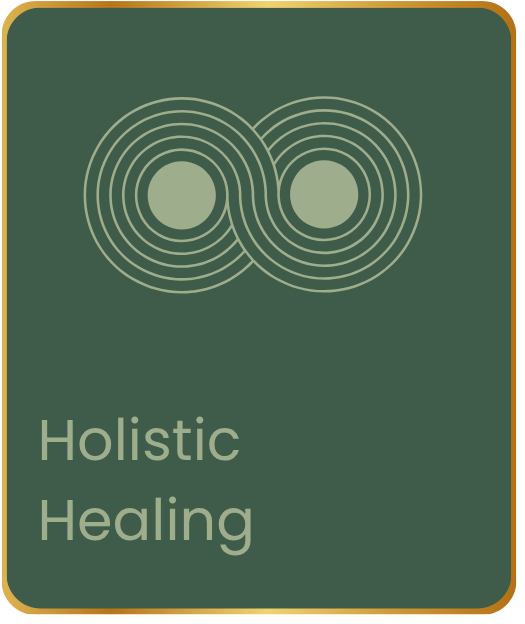
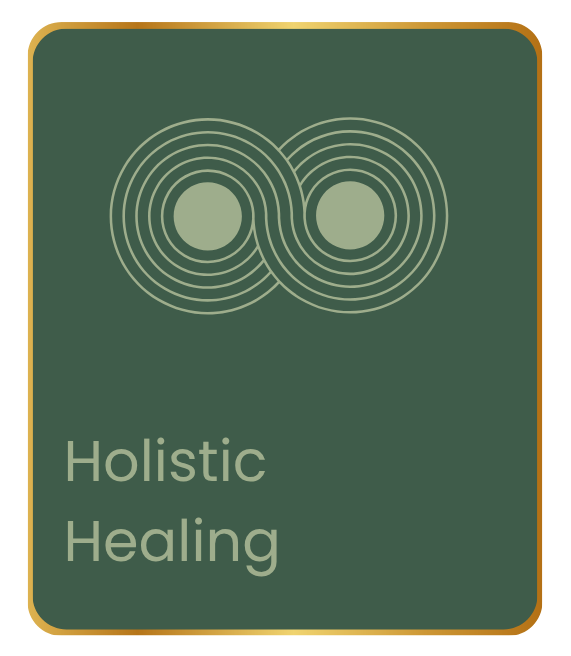
added images

Changed region(s): [[0.0, 0.0, 1.0, 1.0], [0.1524, 0.1522, 0.8229, 0.4872]]

diff --git a/components/Designed.tsx b/components/Designed.tsx
@@ -120,8 +120,60 @@ export default function Designed() {
         </motion.div>
 
         {/* ================= Cards ================= */}
-        
+
+        <motion.div
+  variants={stagger}
+  initial="hidden"
+  whileInView="show"
+  viewport={{ once: true }}
+  className="xl:hidden flex overflow-x-auto gap-6 px-4 mt-3 w-full scrollbar-hide"
+  style={{ WebkitOverflowScrolling: "touch" }}
+>
+  {["/58.png", "/59.png", "/60.png"].map((img, i) => (
+    <motion.div
+      key={i}
+      variants={fadeUp}
+      whileTap={{ scale: 0.97 }}
+      className="min-w-[280px] sm:min-w-[320px] flex-shrink-0"
+    >
+      <Image
+        src={img}
+        alt=""
+        width={320}
+        height={360}
+        className="w-full h-90 object-cover rounded-4xl"
+      />
+    </motion.div>
+  ))}
+</motion.div>
 <motion.div
+  variants={stagger}
+  initial="hidden"
+  whileInView="show"
+  viewport={{ once: true }}
+  className="hidden xl:flex flex-wrap justify-center gap-6 px-4 mt-3 w-full"
+>
+  {["/58.png", "/59.png", "/60.png"].map((img, i) => (
+    <motion.div
+      key={i}
+      variants={fadeUp}
+      whileTap={{ scale: 0.97 }}
+      whileHover={{ scale: 1.03 }}
+      className="w-full sm:w-[48%] lg:w-[30%]"
+    >
+      <Image
+        src={img}
+        alt=""
+        width={320}
+        height={360}
+        className="w-full h-110 object-cover rounded-4xl"
+      />
+    </motion.div>
+  ))}
+</motion.div>
+
+        
+{/* <motion.div
   variants={stagger}
   initial="hidden"
   whileInView="show"
@@ -170,8 +222,8 @@ export default function Designed() {
       </Card>
     </motion.div>
   ))}
-</motion.div>
-        <motion.div
+</motion.div> */}
+        {/* <motion.div
           variants={stagger}
           initial="hidden"
           whileInView="show"
@@ -179,9 +231,9 @@ export default function Designed() {
           className="hidden xl:flex flex-wrap items-center justify-center gap-5 mt-3"
         >
           {[ 
-            { img: "/3.png", title: "Consciousness Guidance", bg: "#dcd8ce" },
-            { img: "/4.png", title: "Meditation Coaching", bg: "#7d7d83" },
-            { img: "/5.png", title: "Holistic Healing", bg: "#3f5c4a" },
+            { img: "/68.png", title: "Consciousness Guidance", bg: "#dcd8ce" },
+            { img: "/69.png", title: "Meditation Coaching", bg: "#7d7d83" },
+            { img: "/70.png", title: "Holistic Healing", bg: "#3f5c4a" },
           ].map((card, i) => (
             <motion.div key={i} variants={fadeUp}     whileTap={{ scale: 0.97 }} className="w-[95%] md:w-[45%] lg:w-auto">
               <Card className="flex h-90 w-full lg:h-100 lg:w-90 flex-col justify-between border-3 border-[#C9A84C] px-6 pb-8 rounded-4xl"
@@ -212,7 +264,7 @@ export default function Designed() {
               </Card>
             </motion.div>
           ))}
-        </motion.div>
+        </motion.div> */}
 
         {/* ================= Therapy Formats ================= */}
         <motion.div
@@ -284,3 +336,10 @@ export default function Designed() {
     </div>
   );
 }
+
+
+
+          // {[ 
+          //   { img: "/68.png", title: "Consciousness Guidance", bg: "#dcd8ce" },
+          //   { img: "/69.png", title: "Meditation Coaching", bg: "#7d7d83" },
+          //   { img: "/70.png", title: "Holistic Healing", bg: "#3f5c4a" },
